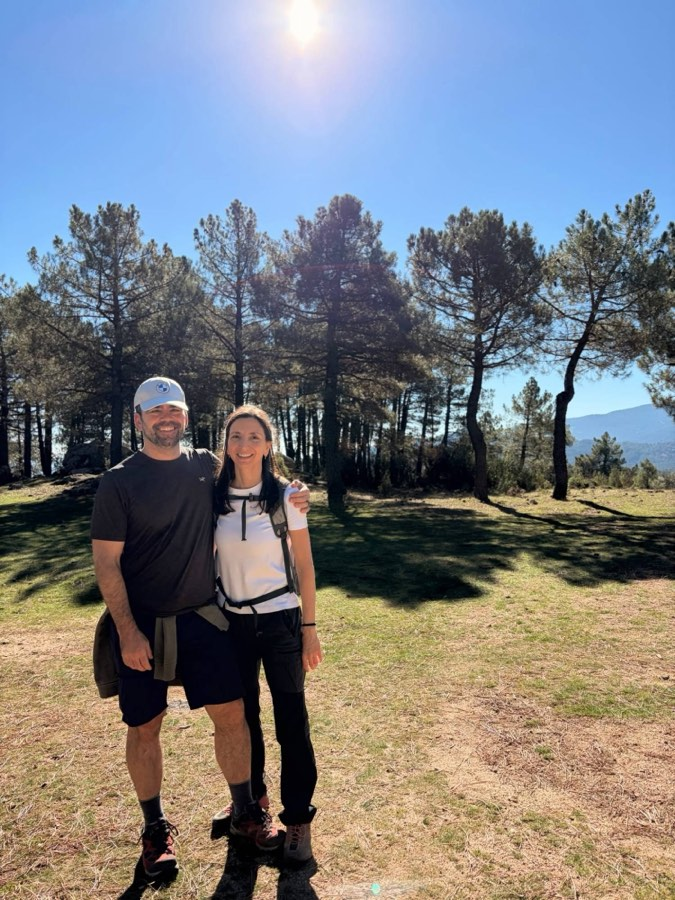
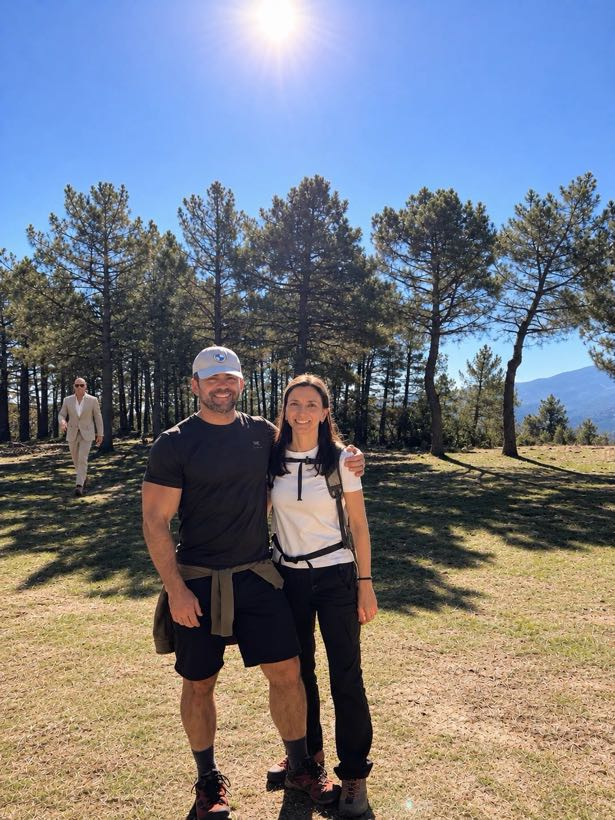
Nueva foto del save the date
Foto editada que aporta Manu, misma proporcion 3:4. Se regenera la
imagen ligera del preview y se ajustan los atributos del img.

diff --git a/index.html b/index.html
@@ -215,7 +215,7 @@
 
   <main class="poster">
     <figure class="plate">
-      <img src="foto.jpg" alt="Javi y su novia en un pinar de la sierra de Madrid, un d&iacute;a de sol." width="1500" height="2000">
+      <img src="foto.jpg" alt="Javi y su novia en un pinar de la sierra de Madrid, un d&iacute;a de sol." width="1086" height="1448">
     </figure>
 
     <div class="stack">
